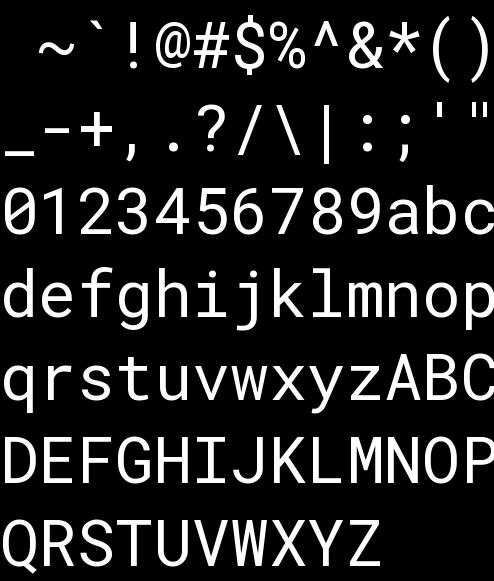
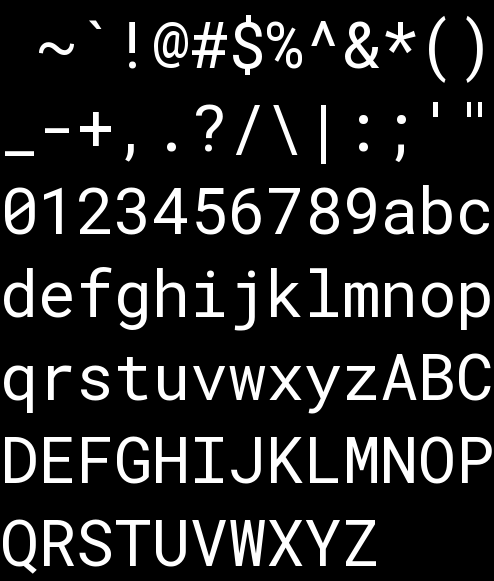
Fixed translation issue

diff --git a/src/utils/text.cpp b/src/utils/text.cpp
@@ -6,7 +6,7 @@
 std::pair<int, int> charToOffset(char c) {
     const std::vector<std::string> rows = {
         " ~`!@#$%^&*()",
-        "_-+,.?/\\|;:'\"",
+        "_-+,.?/\\|:;'\"",
         "0123456789abc",
         "defghijklmnop",
         "qrstuvwxyzABC",
@@ -67,7 +67,7 @@ Text::Text(const char* path) :
     glBindVertexArray(0);
 }
 
-void Text::draw(std::string text, float size = 0.1f, glm::vec2 pos = glm::vec2(0.0f, 0.0f)) {
+void Text::draw(std::string text, float size, glm::vec2 pos) {
     fontShader_.use();
     glActiveTexture(GL_TEXTURE0);
     glBindTexture(GL_TEXTURE_2D, fontBitmap_.id());
@@ -82,18 +82,26 @@ void Text::draw(std::string text, float size = 0.1f, glm::vec2 pos = glm::vec2(0
     fontShader_.setVec2("position", pos);
 
     float physicalWidth = CHARACTER_WIDTH * size;
+    float physicalHeight = CHARACTER_HEIGHT * size;
     float uvWidth = 1.0f / CHARACTER_COUNT_X;
     float uvHeight = 1.0f / CHARACTER_COUNT_Y;
 
     int i = 0;
+    int breakLineCount = 0;
 
     glBindVertexArray(vao_);
     for(auto c = text.begin(); c != text.end(); c++) {
+        if (*c == '\n') {
+            breakLineCount++;
+            i = 0;
+            continue;
+        }
+
         auto [u, v] = charToOffset(*c);
         auto fontOffset = glm::vec2(uvWidth * u, uvHeight * v);
         fontShader_.setVec2("fontOffset", fontOffset);
 
-        auto position = pos + glm::vec2(i * physicalWidth, 0.0f);
+        auto position = pos + glm::vec2(i * physicalWidth, -breakLineCount * physicalHeight);
         fontShader_.setVec2("position", position);
 
         glDrawArrays(GL_TRIANGLES, 0, 36);

diff --git a/src/rendering/window.cpp b/src/rendering/window.cpp
@@ -1,7 +1,5 @@
 #include "window.hpp"
 
-#include "model.hpp"
-
 #include <glm/gtc/type_ptr.hpp>
 #include <stdexcept>
 
@@ -132,8 +130,8 @@ void Window::keyboardEvent_(float delta) {
 void Window::drawScreen_() {
     glBindFramebuffer(GL_FRAMEBUFFER, 0);
     glDisable(GL_DEPTH_TEST);
-    glClearColor(0.3, 0.3, 0.3, 1.0);
     glClear(GL_COLOR_BUFFER_BIT);
+    glClearColor(0.0f, 0.0f, 0.0f, 1.0f);
     screenShader_->use();
     screenShader_->setInt("screentexture", 0);
     glActiveTexture(GL_TEXTURE0);
@@ -155,12 +153,13 @@ void Window::run() {
         glClearColor(0.0f, 0.0f, 0.0f, 1.0f);
         glClear(GL_COLOR_BUFFER_BIT | GL_DEPTH_BUFFER_BIT);
 
-        text_->draw("abcdefh", .1f, glm::vec2(0.0f, 0.0f));
+        text_->draw("FPS: " + std::to_string((int)round(1 / delta)));
         
         drawScreen_();
 
         glfwPollEvents();
         glfwSwapBuffers(id_);
+        lastTime = currentTime;
     }
 }
 

diff --git a/src/utils/text.hpp b/src/utils/text.hpp
@@ -23,7 +23,7 @@ class Text {
         unsigned int ebo_;
     public:
         Text(const char* path);
-        void draw(std::string text, float size, glm::vec2 pos);
+        void draw(std::string text, float size = 0.1f, glm::vec2 pos = glm::vec2(-1.0f, 1.0f));
         void adjustAspectRatio(float ratio);
 };
 
